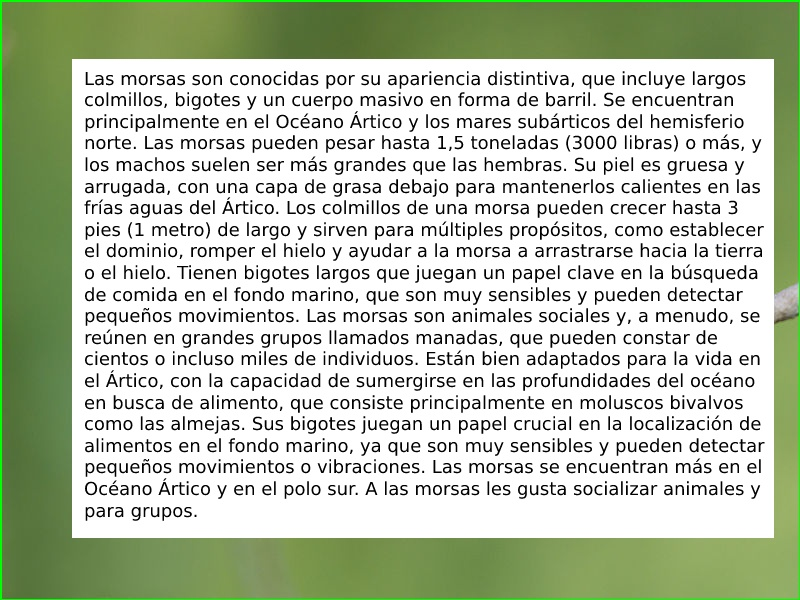
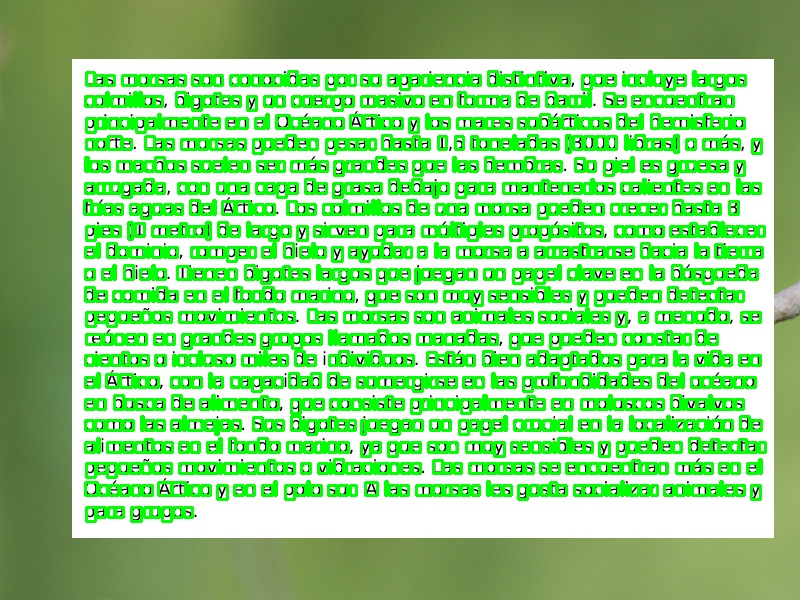
Add the rectangle size
Add the rectangle size threshold when detecting the rectangle to remove the small noise rectangles.

diff --git a/ExtractText.py b/ExtractText.py
@@ -4,7 +4,9 @@ import matplotlib.pyplot as plt
 import pyocr
 import pyocr.builders
 from PIL import Image
+import pytesseract
 import os
+import csv
 
 os.environ['TESSDATA_PREFIX'] = 'C:/Program Files/Tesseract-OCR/tessdata/'
 
@@ -15,50 +17,38 @@ def extract_text(img_path):
     # Convert the image to grayscale
     gray_img = cv2.cvtColor(img, cv2.COLOR_BGR2GRAY)
 
+    blur = cv2.GaussianBlur(gray_img, (5, 5), 0)
+    thresh = cv2.threshold(blur, 0, 255, cv2.THRESH_BINARY + cv2.THRESH_OTSU)[1]
+    kernel = cv2.getStructuringElement(cv2.MORPH_RECT, (3,3))
+    opening = cv2.morphologyEx(thresh, cv2.MORPH_OPEN, kernel, iterations=1)
+
     # Apply threshold to get image with only b&w (binarization)
-    _, thresh = cv2.threshold(gray_img, 0, 255, cv2.THRESH_OTSU | cv2.THRESH_BINARY_INV)
+#    threshold_img = cv2.threshold(gray_img, 0, 255, cv2.THRESH_OTSU | cv2.THRESH_BINARY_INV)[1]
 
-    # Get structuring element/kernel that will be used for dilation
-    kernel = cv2.getStructuringElement(cv2.MORPH_RECT, (3, 3))
-
-    # Dilate the image
-    dilated = cv2.dilate(thresh, kernel, iterations=3)
-
-    # Find contours
-    ctrs, hier = cv2.findContours(dilated.copy(), cv2.RETR_EXTERNAL, cv2.CHAIN_APPROX_SIMPLE)
+    custom_config = r'--oem 3 --psm 3'
     
-
-    img_copy = img.copy()
-
-
-    # Initialize the OCR tool
-    tools = pyocr.get_available_tools()
-    ocr_tool = tools[0]
+    details = pytesseract.image_to_data(opening, output_type=pytesseract.Output.DICT, config=custom_config, lang='spa')
     
-    for ctr in ctrs:
-        # Get bounding box
-        x, y, w, h = cv2.boundingRect(ctr)
-        rect = cv2.rectangle(img_copy, (x, y), (x + w, y + h), (0,255,0), 2)
-
-        # Crop the image to the bounding rectangle
-        cropped_image = img[y:y+h, x:x+w]
-
-        # Apply OCR to the cropped image
-        text = ocr_tool.image_to_string(
-            Image.fromarray(cropped_image),
-            lang='spa',
-            builder=pyocr.builders.TextBuilder()
-        )
+    parse_text = []
+    word_list = []
+    last_word = ''
     
+    for word in details['text']:
+        if word != '':
+            word_list.append(word)
+        if (last_word != '' and word == '') or (word == details['text'][-1]):
+            parse_text.append(word_list)
+            word_list = []
+
     # Print the extracted text
-    return text
+    return parse_text
 
 if __name__ == "__main__":
     for i in range(1, 5):
         img_path = f"training/training{i}.png"
-        text = extract_text(img_path)
-        with open(f"saved_texts/text{i}.txt", "w") as file:
-            file.write(text)    
+        parse_text = extract_text(img_path)
+        with open(f"saved_texts/text{i}.txt", "w", newline = "") as file:
+            csv.writer(file, delimiter = " ").writerows(parse_text)
 
     # img = cv2.imread("training/training4.png")
     # gray = cv2.cvtColor(img, cv2.COLOR_BGR2GRAY)

diff --git a/IdentifyTextAreas.py b/IdentifyTextAreas.py
@@ -1,6 +1,14 @@
 import cv2
 import numpy as np
-import matplotlib.pyplot as plt
+#import matplotlib.pyplot as plt
+
+import os
+
+# Get the current file location
+file_location = os.path.dirname(os.path.abspath(__file__))
+
+# Change the current working directory to the file location
+os.chdir(file_location)
 
 def identify_text_areas(img_path):
     # Read image with opencv
@@ -16,19 +24,19 @@ def identify_text_areas(img_path):
     kernel = cv2.getStructuringElement(cv2.MORPH_RECT, (3, 3))
 
     # Dilate the image
-    dilated = cv2.dilate(thresh, kernel, iterations=3)
+    dilated = cv2.dilate(thresh, kernel, iterations=5)
 
     # Find contours
-    ctrs, hier = cv2.findContours(dilated.copy(), cv2.RETR_EXTERNAL, cv2.CHAIN_APPROX_SIMPLE)
+    ctrs, hier = cv2.findContours(thresh, cv2.RETR_EXTERNAL, cv2.CHAIN_APPROX_SIMPLE)
     
-
     img_copy = img.copy()
 
-    
     for ctr in ctrs:
         # Get bounding box
         x, y, w, h = cv2.boundingRect(ctr)
-        rect = cv2.rectangle(img_copy, (x, y), (x + w, y + h), (0,255,0), 2)
+        
+        if (w * h >= 20 and w * h <= 1000):
+            rect = cv2.rectangle(img_copy, (x, y), (x + w, y + h), (0,255,0), 2)
 
     return rect
 
@@ -36,8 +44,8 @@ def identify_text_areas(img_path):
 if __name__ == "__main__":
     for i in range(1, 5):
         img_path = f"training/training{i}.png"
-        rect = identify_text_areas(img_path)
-        cv2.imwrite(f"saved_images/rectanglebox{i}.jpg", rect)
+        rects = identify_text_areas(img_path)
+        cv2.imwrite(f"saved_images/rectanglebox{i}.jpg", rects)
 
     
 
